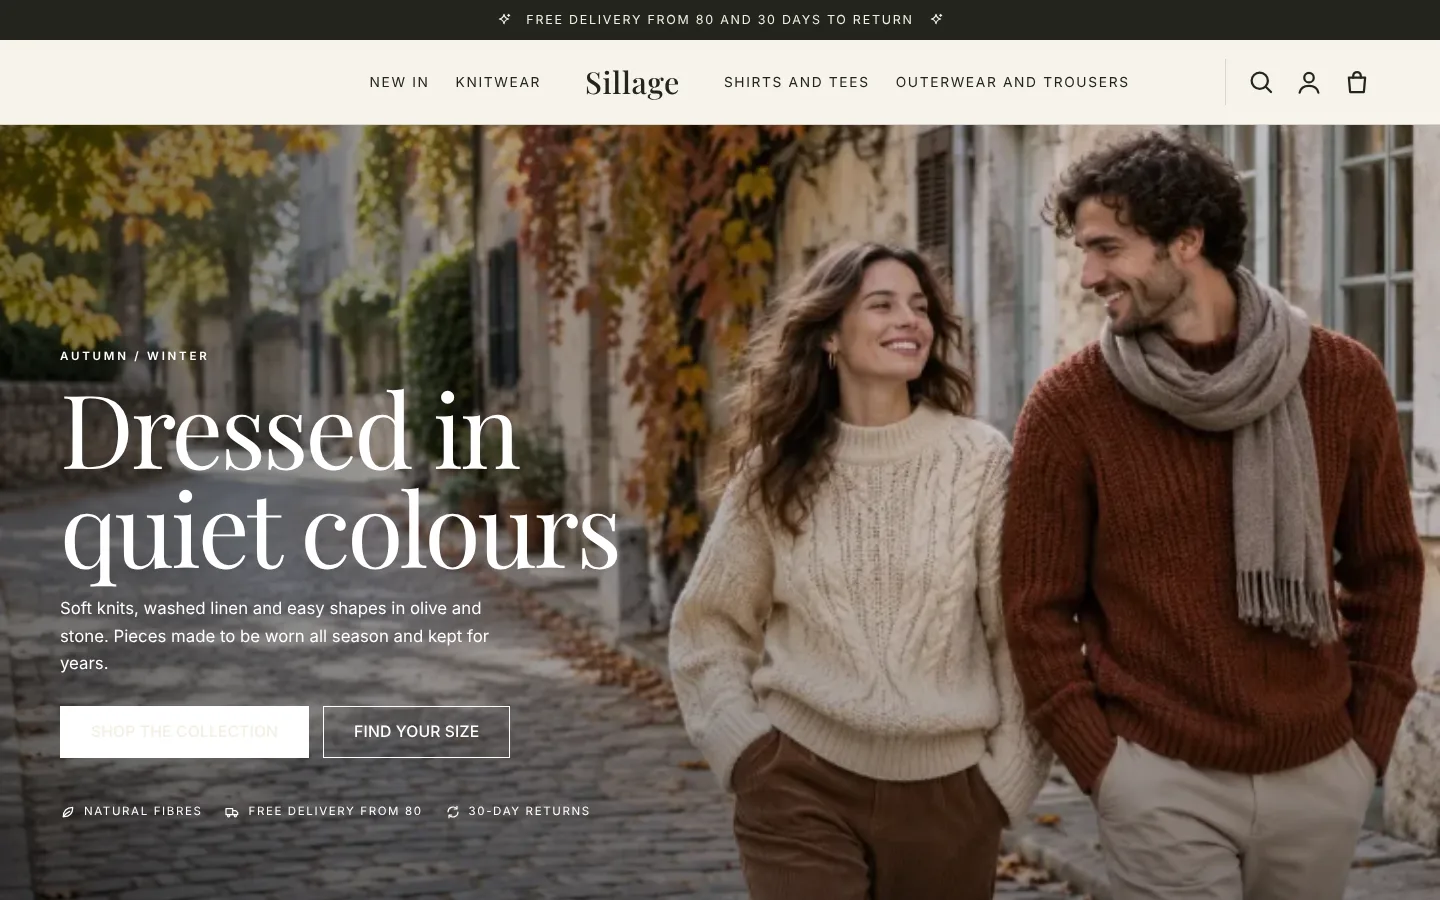
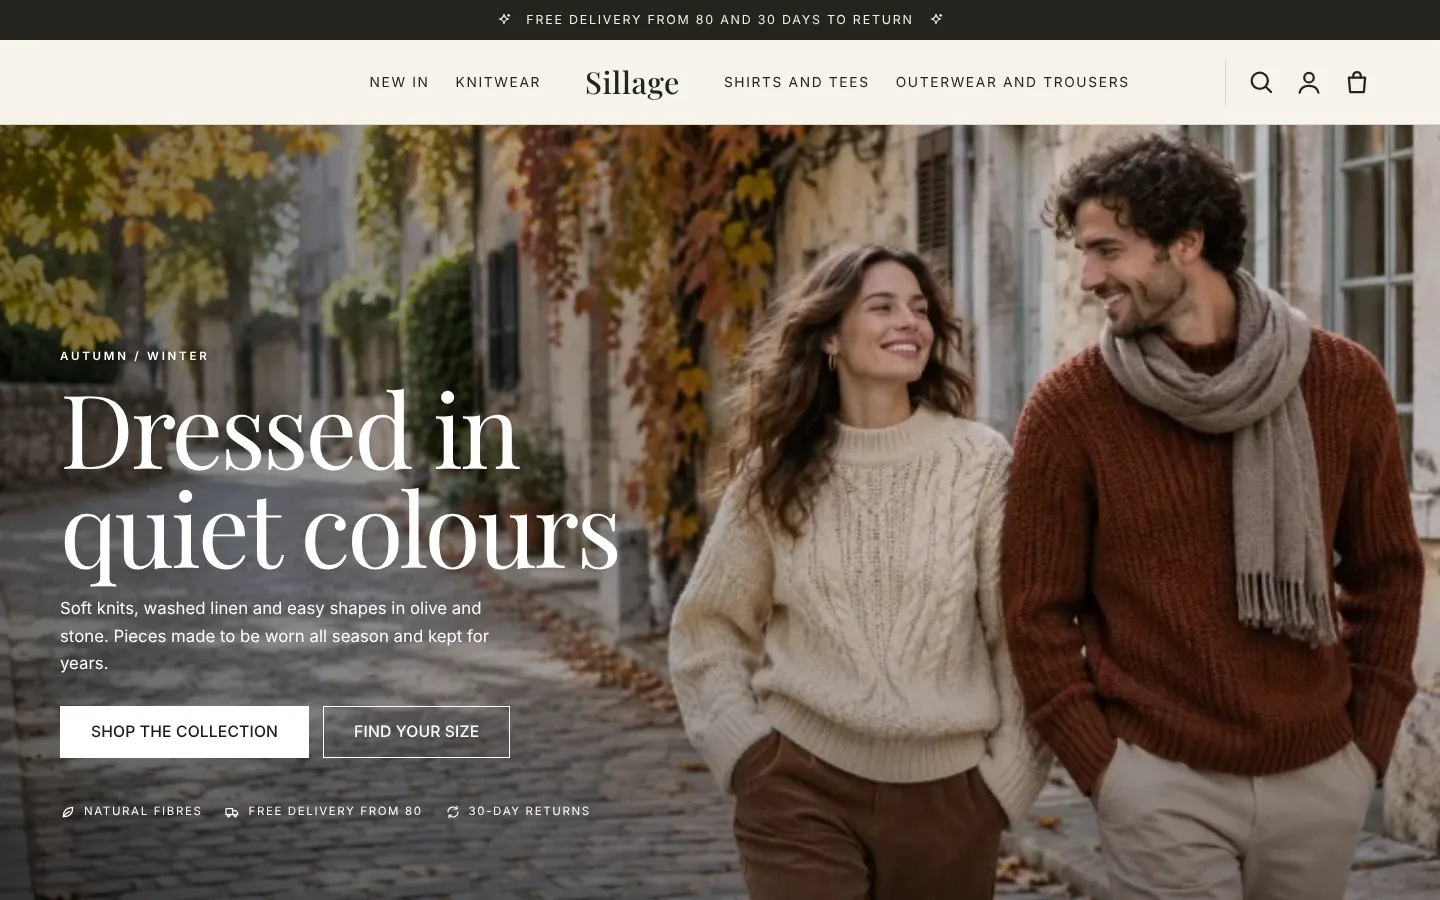
Theme kit docs, French swatch names, mobile sidebar filters, previews and docs

diff --git a/packages/themes/sillage/assets/sillage.css b/packages/themes/sillage/assets/sillage.css
@@ -376,6 +376,7 @@ body:not(.no-card-zoom) .k-card:hover .k-card__img { transform: scale(1.04); }
 .k-gallery__stack { display: grid; grid-template-columns: repeat(2, minmax(0, 1fr)); gap: 10px; margin: 0; padding: 0; list-style: none; }
 .k-gallery__shot { position: relative; aspect-ratio: 4 / 5; overflow: hidden; background: var(--v-surface); border-radius: var(--round-sm); }
 .k-gallery__shot:first-child { grid-column: 1 / -1; aspect-ratio: 1 / 1; border-radius: var(--arch) var(--arch) var(--round-sm) var(--round-sm); }
+.k-gallery__shot:last-child:nth-child(even) { grid-column: 1 / -1; aspect-ratio: 4 / 3; }
 .k-gallery__shot img { width: 100%; height: 100%; object-fit: cover; }
 .k-pdp--stacked .k-info { position: sticky; top: 110px; }
 @media (max-width: 989px) { .k-pdp--stacked .k-info { position: static; } .k-pdp--stacked .k-pdp__grid { grid-template-columns: 1fr; } }

diff --git a/scripts/theme-kit/css/pdp-stacked.css b/scripts/theme-kit/css/pdp-stacked.css
@@ -4,6 +4,7 @@
 .k-gallery__stack { display: grid; grid-template-columns: repeat(2, minmax(0, 1fr)); gap: 10px; margin: 0; padding: 0; list-style: none; }
 .k-gallery__shot { position: relative; aspect-ratio: 4 / 5; overflow: hidden; background: var(--v-surface); border-radius: var(--round-sm); }
 .k-gallery__shot:first-child { grid-column: 1 / -1; aspect-ratio: 1 / 1; border-radius: var(--arch) var(--arch) var(--round-sm) var(--round-sm); }
+.k-gallery__shot:last-child:nth-child(even) { grid-column: 1 / -1; aspect-ratio: 4 / 3; }
 .k-gallery__shot img { width: 100%; height: 100%; object-fit: cover; }
 .k-pdp--stacked .k-info { position: sticky; top: 110px; }
 @media (max-width: 989px) { .k-pdp--stacked .k-info { position: static; } .k-pdp--stacked .k-pdp__grid { grid-template-columns: 1fr; } }

diff --git a/packages/themes/foyer/assets/foyer.js b/packages/themes/foyer/assets/foyer.js
@@ -334,7 +334,11 @@
       input.addEventListener('keydown', function (e) { if (e.key === 'Enter') { e.preventDefault(); form.submit(); } });
     });
     var drops = $$('[data-drop]', form);
-    if (form.classList.contains('k-filters--side')) return;
+    if (form.classList.contains('k-filters--side')) {
+      /* Sidebar groups are open on wide screens; on a phone they start closed unless a filter is active. */
+      if (window.matchMedia && window.matchMedia('(max-width: 989px)').matches) drops.forEach(function (d) { if (!d.classList.contains('is-active')) d.open = false; });
+      return;
+    }
     drops.forEach(function (d) {
       d.addEventListener('toggle', function () { if (d.open) drops.forEach(function (o) { if (o !== d) o.open = false; }); });
     });

diff --git a/packages/themes/maroquin/assets/maroquin.js b/packages/themes/maroquin/assets/maroquin.js
@@ -334,7 +334,11 @@
       input.addEventListener('keydown', function (e) { if (e.key === 'Enter') { e.preventDefault(); form.submit(); } });
     });
     var drops = $$('[data-drop]', form);
-    if (form.classList.contains('k-filters--side')) return;
+    if (form.classList.contains('k-filters--side')) {
+      /* Sidebar groups are open on wide screens; on a phone they start closed unless a filter is active. */
+      if (window.matchMedia && window.matchMedia('(max-width: 989px)').matches) drops.forEach(function (d) { if (!d.classList.contains('is-active')) d.open = false; });
+      return;
+    }
     drops.forEach(function (d) {
       d.addEventListener('toggle', function () { if (d.open) drops.forEach(function (o) { if (o !== d) o.open = false; }); });
     });

diff --git a/packages/themes/sillage/assets/sillage.js b/packages/themes/sillage/assets/sillage.js
@@ -334,7 +334,11 @@
       input.addEventListener('keydown', function (e) { if (e.key === 'Enter') { e.preventDefault(); form.submit(); } });
     });
     var drops = $$('[data-drop]', form);
-    if (form.classList.contains('k-filters--side')) return;
+    if (form.classList.contains('k-filters--side')) {
+      /* Sidebar groups are open on wide screens; on a phone they start closed unless a filter is active. */
+      if (window.matchMedia && window.matchMedia('(max-width: 989px)').matches) drops.forEach(function (d) { if (!d.classList.contains('is-active')) d.open = false; });
+      return;
+    }
     drops.forEach(function (d) {
       d.addEventListener('toggle', function () { if (d.open) drops.forEach(function (o) { if (o !== d) o.open = false; }); });
     });

diff --git a/scripts/theme-kit/js/core.js b/scripts/theme-kit/js/core.js
@@ -334,7 +334,11 @@
       input.addEventListener('keydown', function (e) { if (e.key === 'Enter') { e.preventDefault(); form.submit(); } });
     });
     var drops = $$('[data-drop]', form);
-    if (form.classList.contains('k-filters--side')) return;
+    if (form.classList.contains('k-filters--side')) {
+      /* Sidebar groups are open on wide screens; on a phone they start closed unless a filter is active. */
+      if (window.matchMedia && window.matchMedia('(max-width: 989px)').matches) drops.forEach(function (d) { if (!d.classList.contains('is-active')) d.open = false; });
+      return;
+    }
     drops.forEach(function (d) {
       d.addEventListener('toggle', function () { if (d.open) drops.forEach(function (o) { if (o !== d) o.open = false; }); });
     });

diff --git a/scripts/theme-kit/README.md b/scripts/theme-kit/README.md
@@ -1,0 +1,85 @@
+# ShopMe theme kit
+
+Makes a complete theme cheap: the Liquid plumbing every storefront needs (layout, cart drawer, predictive search, filters, selling
+plans, focal points, customer pages, EN and FR strings) is written and tested once, and a theme is a short file of options. The
+generator composes the theme folder and commits it under `packages/themes/<handle>/`. Same options, same bytes.
+
+```
+node scripts/theme-kit/build.mjs [handle...]      write the theme folders (all the kit themes when none is named)
+node scripts/theme-kit/build.mjs --check          fail when a committed folder differs from what the kit generates
+node scripts/theme-kit/demo-images.mjs [handle]   convert the demo photos to WebP (see "Demo catalogue")
+```
+
+## Layout of the kit
+
+```
+base/             shared plumbing, copied into every theme: layout, snippets, sections, templates, locales, settings schema
+variants/header/  centered.liquid, mega.liquid, split.liquid (+ _schema.liquid shared by the three)
+variants/gallery/ switcher.liquid (main photo and thumbnails), stacked.liquid (every photo in a column)
+css/              core.css and hero.css, header*.css, card-<style>.css, pdp-<layout>.css, listing-<layout>.css, features.css
+js/               core.js (cart, search, product page, filters) and features.js (see below), joined into assets/<handle>.js
+sections/         extra sections: one file each, with the Liquid, the CSS and the schema texts in EN and FR
+themes/           one options file per theme: <handle>.mjs
+build.mjs         the generator;  demo-images.mjs  the photo converter;  LICENSE.txt  the MIT text copied into each theme
+```
+
+The generated theme keeps only what its options ask for: one header variant, one card style, one product page layout, one
+collection layout, only the fonts it uses (the woff2 files come from `packages/themes/nocturne/assets`), only its extra sections.
+
+## Options of a theme (`themes/<handle>.mjs`)
+
+| Option | Values |
+|---|---|
+| `handle`, `name`, `version`, `date` | folder name, display name, `1.0.0`, changelog date |
+| `header.layout` | `centered` (centred logo, search left, menu on its own row), `mega` (logo left, mega menu, icons right), `split` (half of the menu on each side of the logo) |
+| `header.sticky`, `announcement` | sticky header; text and colour scheme of the announcement bar |
+| `card.style` | `minimal` (bare photo, small caps), `rounded` (soft tile that lifts), `framed` (thin border, offset shadow), `arched` (arch above the photo) |
+| `card.ratio`, `card.align`, `card.quickAdd` | `portrait`, `square`, `landscape`; `left`, `center`; `true`, `false` |
+| `product.layout` | `left` (thumbnails under the photo), `rail` (vertical rail of thumbnails), `stacked` (all photos in a column, details stay in view); `product.benefits` the three reassurance lines |
+| `collection.layout` | `sidebar` (filter groups listed open on the left) or `topbar` (drop-downs in a row); `columns`, `perPage`, `infiniteScroll` |
+| `fonts` | `heading`, `body`, `accent`, `extra`: from `dm-sans`, `manrope`, `inter`, `space-grotesk`, `playfair-display`, `lora` |
+| `type` | `h1`, `h2` (percent of the base size), `headingWeight`, `headingCase`, `lineHeight`, `baseSize` |
+| `colors` | `accent`, `background`, `surface`, `card`, `text`, `sale`, `swatchColors`, and `schemes` (the colour schemes sections can use: `scheme-1`, `scheme-2`...) |
+| `scale` | `radius` (`sharp`, `soft`, `round`, `pill`), `spacing` (`compact`, `regular`, `airy`), `pageWidth`, `arch` |
+| `buttons`, `freeShipping`, `logoWidth` | button case, height and border; free shipping threshold (0 hides the bar) |
+| `home` | the home page: `[{ id, type, settings, blocks: [{ type, settings }] }]` using any section of the theme |
+| `templates` | extra page templates, e.g. `{ 'page.size-guide': [ ...sections ] }` |
+| `sections` | extra sections to ship (see below); the countdown timer is always shipped |
+| `features` | `breadcrumbs`, `backToTop`, `stockCounter`, `stockThreshold`, `ageGate`, `ageGateMinAge`: the defaults of the settings below |
+| `css` | a few lines of CSS that give the theme its own character, appended last |
+| `info` | `description`, `tags`, `industries`, `catalogSize` for the theme store |
+| `changelog` | the notes of version 1.0.0, EN and FR |
+| `demo` | the demo catalogue (see below) |
+
+Every text is written once as `t('English', 'Français')`. The English goes into the theme, the French into `seed_defaults` of
+`locales/fr.json`, so a French shop gets French texts at install. The kit refuses a text that contains a storefront string
+(`reword it`): such a text would stay English on a French page.
+
+## Features of every generated theme
+
+Sticky header (setting), breadcrumbs, back to top button, colour swatches (cards and product page), low stock counter ("Only 3
+left", per variant), countdown timer section, age verification popup (theme setting, asked once per browser, never shown in the
+editor) and infinite scroll on collections (section setting; pagination stays for visitors without JavaScript). Theme settings
+live in the "Store features" group; the plumbing is `snippets/breadcrumbs`, `back-to-top`, `age-gate`, `sections/countdown` and
+`js/features.js`.
+
+## Add a theme
+
+1. Copy `themes/sillage.mjs` to `themes/<handle>.mjs` and change the options. Pick a header, a card style, a product page
+   layout, a collection layout, two fonts, colour schemes, the home page sections and the extra sections.
+2. Need a section for the trade? Add `sections/<id>.mjs` (a Liquid body, its CSS and a definition of its settings with labels in EN
+   and FR) and list its id in `sections`. The kit writes the schema and the schema locales for you.
+3. `node scripts/theme-kit/build.mjs <handle>`.
+4. Photos and demo catalogue: see below. Then `node scripts/theme-checksums.mjs <handle>` and
+   `node scripts/theme-previews.mjs <handle>` (after `pnpm build`).
+5. Add `<handle>` to `KIT` in `apps/server/src/storefront-themes.test.ts`, run that test and `apps/server/src/theme-kit.test.ts`.
+
+## Demo catalogue
+
+`demo.*` in the options becomes `packages/themes/<handle>/demo/catalog.json` (store name, collections, products with titles,
+descriptions, prices, options and variants, menus, pages, and the home page texts in EN and FR taken from `home`). The photos
+go in `demo/images/` (`hero.webp`, `ambiance.webp`, `produit-01..06.webp`): `demo-images.mjs` converts the source photos
+(`/home/user/theme-images/<handle>/<handle>-hero.jpg`, `-ambiance.jpg`, `-produit-01..06.jpg`) to WebP, products at 1200 px,
+the hero 2000 px wide, the ambiance photo 1200 x 1500, quality 80 down to what keeps each file near 150 KB. The folder is not a
+theme file and is never installed; `scripts/theme-previews.mjs` seeds it to photograph the theme, and the theme store demo shows
+those photos.

diff --git a/packages/themes/README.md b/packages/themes/README.md
@@ -14,6 +14,7 @@ packages/themes/
     changelog.json            what changed in each version (same format as Aurora's)
     checksums.json            generated by scripts/theme-checksums.mjs
     layout/ templates/ (templates/customers/) sections/ blocks/ snippets/ assets/ config/ locales/
+    demo/                     optional, never installed: catalog.json and images/*.webp of the demo store (see below)
 ```
 
 A theme folder holds **theme files only** (the format is in [docs/spec/theme-format.md](../../docs/spec/theme-format.md)) plus the
@@ -33,7 +34,10 @@ Everything the gallery shows comes from the first group of `config/settings_sche
   "theme_author": "ShopMe contributors",
   "shopme_description": "A dark, high-contrast storefront for electronics and gadgets.",
   "shopme_descriptions": { "fr": "Une boutique sombre et contrastée pour l’électronique et les gadgets." },
-  "shopme_tags": ["Tech", "Dark"]
+  "shopme_tags": ["Tech", "Dark"],
+  "shopme_industries": ["electronics"],
+  "shopme_catalog_size": "some",
+  "shopme_features": ["cart-drawer", "predictive-search"]
 }
 ```
 
@@ -45,6 +49,12 @@ Everything the gallery shows comes from the first group of `config/settings_sche
 | `shopme_description` | yes | One or two sentences, in English, shown on the card. |
 | `shopme_descriptions` | no | The same text per language (`fr`, ...). The admin picks its own language and falls back to English. |
 | `shopme_tags` | yes | A few short English tags ("Fashion", "Food", "Tech", ...). The admin translates the tags it knows (see `apps/admin/src/i18n/en-theme-gallery.ts`, keys `themes.tag.*`) and shows the others as written. |
+| `shopme_industries` | yes | Slugs of the trades the theme is made for (`fashion`, `accessories`, `home-decor`, `beauty`, `food-drink`, `electronics`, `art`, `general`): the "Industry" filter of the theme store. |
+| `shopme_catalog_size` | yes | `one` (a single product), `few` (up to 20), `some` (20 to 200) or `many` (200 and more): the "Catalog size" filter. |
+| `shopme_features` | yes | Slugs of what the theme offers (`predictive-search`, `cart-drawer`, `selling-plans`, `product-filters`, `colour-swatches`, `quick-add`, `sticky-header`, `mega-menu`, `infinite-scroll`, `breadcrumbs`, `back-to-top`, `stock-counter`, `countdown-timer`, `age-verification`, `free-shipping-bar`, `multilingual`): the "Features" filter. |
+
+The theme store shows each of these three with the number of themes it holds. Their labels (EN and FR) are the admin's keys
+`themes.industry.<slug>`, `themes.size.<size>` and `themes.feature.<slug>`; a new slug needs its two strings.
 
 ## Seed texts (French and other languages)
 
@@ -65,6 +75,20 @@ schema defaults is replaced with its translation; locale files are left alone. I
 creates the new copy for a French shop), so merchant edits and existing installs are never touched. Any language works the
 same way (`locales/<language>.json`); a theme without a map for the shop's language is installed as written. Keep each English
 text identical wherever it appears, and put the full storefront translations in the locale files as usual.
+
+## Demo catalogue
+
+A theme can ship `demo/catalog.json` (store name, collections, products with titles, descriptions, prices, options and variants, menus,
+pages and home page texts, in English and French) and `demo/images/*.webp`. The installer ignores the folder.
+`node scripts/theme-previews.mjs <handle>` seeds it into a temporary store so the previews, and the theme store's "View demo", show a
+real-looking shop of that theme's trade; themes without a demo are photographed on the coffee demo store. `--qa <dir>` also writes
+screenshots of the home page, a collection, a product and the cart drawer at 1440 and 390 px, `--lang fr` does it for a French store.
+
+## Theme kit
+
+Sillage, Foyer and Maroquin are generated: their folders are the output of `scripts/theme-kit` (header, card, product page and
+collection variants, shared plumbing, per-theme options). Edit `scripts/theme-kit/themes/<handle>.mjs` or the kit, then run
+`node scripts/theme-kit/build.mjs`; do not edit these folders by hand. See [scripts/theme-kit/README.md](../../scripts/theme-kit/README.md).
 
 ## Updates
 
@@ -93,6 +117,8 @@ The registry (`packages/core/src/services/theme-registry.ts`) discovers the them
 
 - `node scripts/theme-previews.mjs [handle...] [--out <dir>]` (after `pnpm build`): previews, as above.
 - `node scripts/theme-checksums.mjs [handle...]`: `checksums.json` of every bundled theme, from the history of its folder.
+- `node scripts/theme-kit/build.mjs [handle...] [--check]`: regenerates the themes built with the kit.
+- `node scripts/theme-kit/demo-images.mjs [handle...]`: converts the demo photos of a kit theme to WebP.
 - `node scripts/theme-zip.mjs [handle...] [--out <dir>]`: uploadable zips of the themes (theme files only), for distributing a
   theme or trying it with Online Store > Themes > Upload zip.
 

diff --git a/CHANGELOG.md b/CHANGELOG.md
@@ -9,6 +9,10 @@ The format is based on [Keep a Changelog](https://keepachangelog.com/en/1.1.0/),
 
 ### Added
 
+- Theme kit (`scripts/theme-kit`): composes a complete theme from shared, tested Liquid plumbing and per-theme options (header layout, product card style, product page layout, collection layout, fonts, colour schemes, radius and spacing scale, home page composition, extra sections). Output is committed under `packages/themes/<handle>` and is deterministic (`node scripts/theme-kit/build.mjs`, `--check` in tests). Every generated theme has a sticky header, breadcrumbs, a back to top button, colour swatches, a low stock counter, a countdown timer section, an age verification popup (a setting) and infinite scroll on collections (a setting).
+- Three themes built with the kit: Sillage (fashion, olive and neutrals), Foyer (home and decor, cream and linen) and Maroquin (bags, shoes and accessories, camel, black and cream), each with its own sections, a demo catalogue (`demo/catalog.json`, photos in `demo/images`) and French seed texts.
+- Theme store: filters by industry, catalog size and features, with counts, on the all-themes page (`shopme_industries`, `shopme_catalog_size` and `shopme_features` in `theme_info`, set for every bundled theme). The Price facet is gone: every theme is free.
+- `scripts/theme-previews.mjs` seeds each theme's own demo catalogue (the coffee demo for themes without one), and writes QA screenshots with `--qa <dir>` (`--lang fr` for a French store).
 - Account pages: General (name, e-mail, stores, language) and Security (passkeys, password, two-step authentication, signed-in devices), with an identity re-check ("Verify your account to continue") before sensitive changes. Reachable from the account menu in single-store and multi-store mode; new `GET/PATCH /admin/api/auth/profile`, `POST /admin/api/auth/password/change` and `POST /admin/api/auth/verify`, and the security and passkey routes work without a store open.
 - Settings > Users: a page per user, a roles list with the built-in roles and a category column, an "Add a role" page, and Roles and Security as sub-items of Users in the settings sidebar.
 

diff --git a/docs/spec/theme-format.md b/docs/spec/theme-format.md
@@ -434,7 +434,11 @@ ShopMe ships Aurora and any number of other themes. Merchants add them to their 
   `previews/`) are ignored. The handle is the folder name (lowercase letters, digits and hyphens).
 - **Metadata** is read from `theme_info`: `theme_name`, `theme_version`, `theme_author`, `shopme_description` (English),
   `shopme_descriptions` (optional, by language: `{ "fr": "..." }`) and `shopme_tags` (a list of short English tags such as
-  "Fashion"; the admin translates the ones it knows).
+  "Fashion"; the admin translates the ones it knows). The theme store filters on three more keys: `shopme_industries` (slugs such
+  as `fashion`, `home-decor`, `food-drink`), `shopme_catalog_size` (`one`, `few`, `some` or `many`: how many products the theme
+  is made for) and `shopme_features` (slugs such as `mega-menu`, `infinite-scroll`); the admin translates the slugs it knows.
+- **Demo catalogue.** A bundled theme may ship `demo/catalog.json` and `demo/images/*.webp`. They are not theme files: the
+  installer ignores them. `scripts/theme-previews.mjs` seeds them into a temporary store to photograph the theme.
 - **Seed texts.** `locales/<language>.json` may hold a `seed_defaults` map of English text to its translation. At install into
   a shop whose language is `<language>`, every quoted occurrence of the English text in the theme's templates, sections and
   schema defaults is replaced (never the locale files, and never later: merchant edits and existing installs are untouched).
